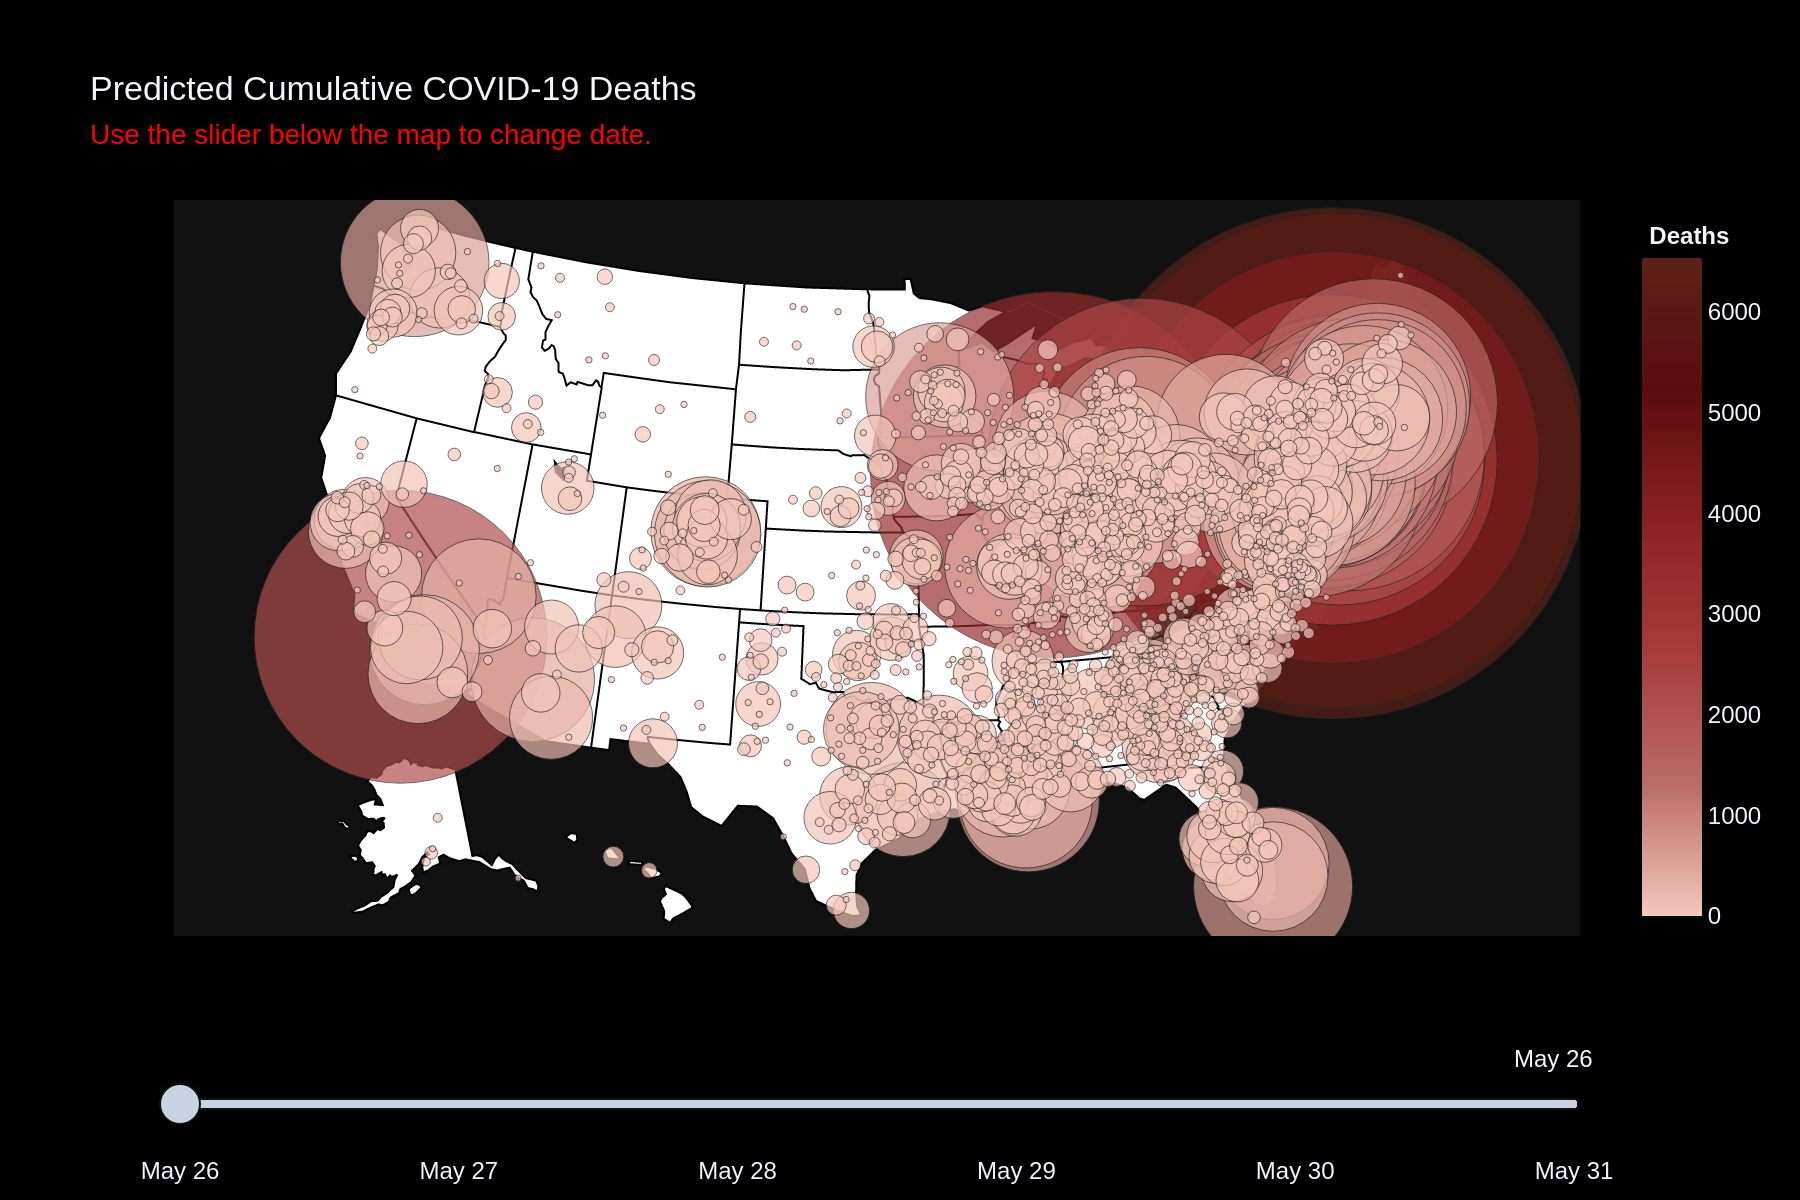
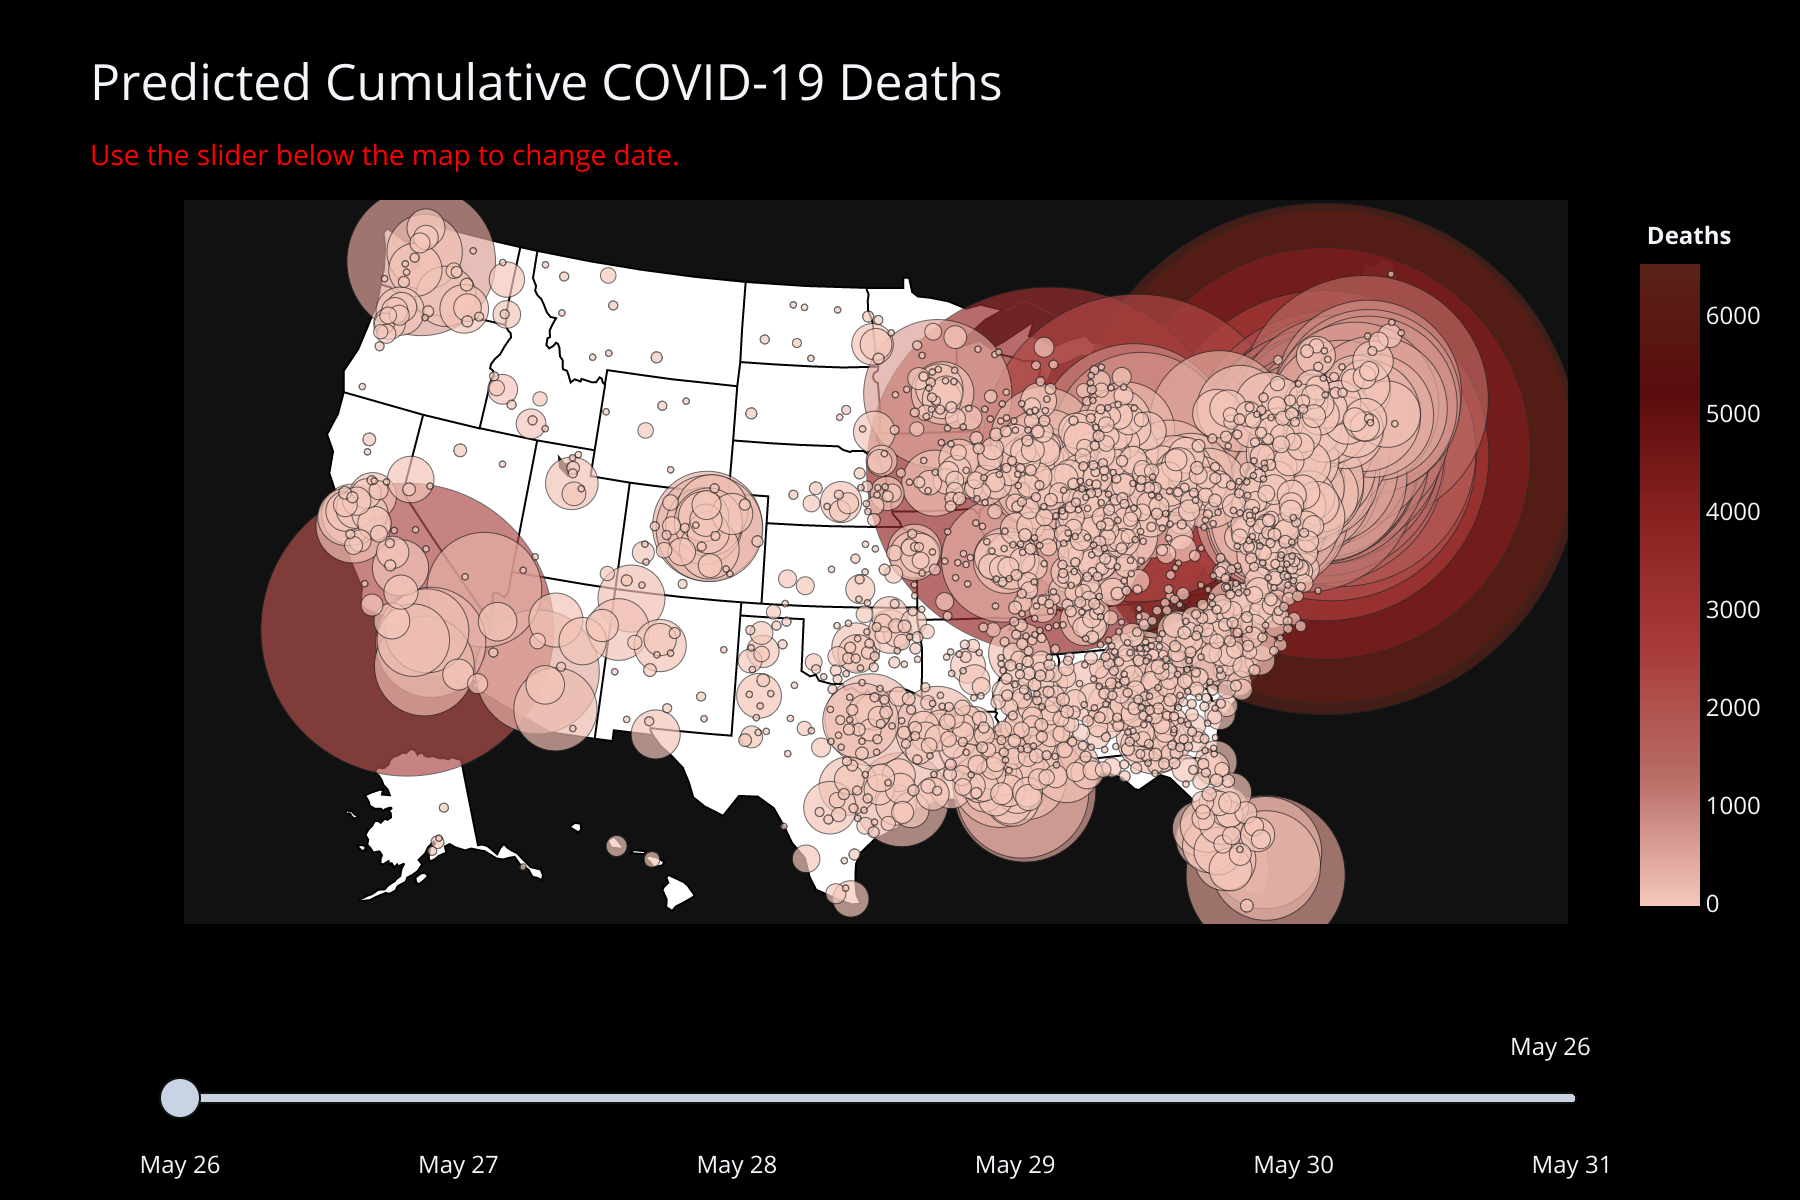
Website updates

diff --git a/_includes/00_about.html b/_includes/00_about.html
@@ -2,31 +2,48 @@
     <div class="intro-body">
         <div class="container">
             <div class="row">
+                <div class="grid-2-columns" style="margin-top: 100px">
+                        <div>
+                            <a href="results/deaths.html" target="_blank"><img src="results/deaths.png" style="width: 100%;"></a>
+                            <a type="button" class="btn btn-primary" style="margin-bottom: 30px; margin-right: 10px;" href="results/deaths.html" target="_blank">View interactive map in fullscreen</a>
+                            <!-- <p> <strong>County-level map</strong>: This map shows forecasts for the number of deaths at the county-level.</p> -->
+                        </div>
+                        <div>
+                            <a href="results/severity_map.html" target="_blank"><img src="results/severity_map.png" style="width: 100%;"></a>
+                            <a type="button" class="btn btn-primary" style="margin-bottom: 30px; margin-right: 10px;" href="results/severity_map.html" target="_blank">View interactive map in fullscreen</a>
+                        </div>
+                </div>
+            </div>
+            <div class="row">
                 <div class="col-md-8 col-md-offset-2">
 
-                    <div class="model-box" style="margin-top: 100px">
-                        <iframe class="model" src="https://docs.google.com/presentation/d/e/2PACX-1vRXKvNYDYm00f9EQHDMzMfs9n4otYEklUThbACGof0hEQLtJvrEn33mcRXPb3w8b9BKOawGnfl77Yfg/embed?start=false&loop=false&delayms=3000" frameborder="0" allowfullscreen=""></iframe>
-                    </div>
+
                     <p style="margin-top: 10px">
-    <a href="https://www.stat.berkeley.edu/~yugroup/people.html">The Yu Group </a> at UC Berkeley Statistics and EECS and CCB is
-    working to help forecast the severity of the epidemic for individual counties and
-    hospitals in the US. We develop interpretable models (updated daily) and
-    curate data to predict the trajectory of COVID-19-related deaths.
-    This website provides access to those predictions, in the form of interactive visualizations.
-    We are collaborating with <a href="https://response4life.org/">Response4Life</a>
-    to blunt the effect of COVID-19 through the production
-    and appropriate distribution of PPE, medical equipment, and medical personnel to healthcare
-    facilities across the United States.
-                     <div align="center">
+                        <a href="https://www.stat.berkeley.edu/~yugroup/people.html">The Yu Group </a> at UC Berkeley Statistics and EECS and CCB is
+                        working to help forecast the severity of the epidemic for individual counties and
+                        hospitals in the US. We develop interpretable models (updated daily) and
+                        curate data to predict the trajectory of COVID-19-related deaths.
+                        This website provides access to those predictions, in the form of interactive visualizations.
+                        We are collaborating with <a href="https://response4life.org/">Response4Life</a>
+                        to blunt the effect of COVID-19 through the production
+                        and appropriate distribution of PPE, medical equipment, and medical personnel to healthcare
+                        facilities across the United States.
+                    </p>
+
+                    <div align="center" style="margin-top: 30px">
                         <a type="button" class="btn btn-primary" style="margin-bottom: 30px; margin-right: 10px;" href="https://github.com/Yu-Group/covid19-severity-prediction/">Github</a>
                         <a type="button" class="btn btn-success" style="margin-bottom: 30px; margin-right: 10px;" href="https://arxiv.org/abs/2005.07882">arXiv paper</a>
                         <a type="button" class="btn btn-info" style="margin-bottom: 30px;" href="/assets/blog">blog post</a>
                     </div>
-                    </p>
+
+                    <div class="model-box">
+                        <iframe class="model" src="https://docs.google.com/presentation/d/e/2PACX-1vRXKvNYDYm00f9EQHDMzMfs9n4otYEklUThbACGof0hEQLtJvrEn33mcRXPb3w8b9BKOawGnfl77Yfg/embed?start=false&loop=false&delayms=3000" frameborder="0" allowfullscreen=""></iframe>
+                    </div>
 
                     <a href="#data" class="btn btn-circle page-scroll">
                         <i class="fa fa-angle-double-down animated"></i>
                     </a>
+
                 </div>
             </div>
         </div>

diff --git a/assets/css/chandan.css b/assets/css/chandan.css
@@ -15,3 +15,7 @@ p {
     text-align: justify;
 }
 
+.grid-2-columns {
+    display: grid;
+    grid-template-columns: 1fr 1fr;
+}

diff --git a/viz/viz_map.py b/viz/viz_map.py
@@ -221,7 +221,7 @@ def plot_cumulative_deaths_map_with_slider(df,
             'autosizable': True,
             'displaylogo': False
         }, auto_open = auto_open)
-
+    fig['layout']['title']['font']['size'] = 25
     return fig
 
 
@@ -394,7 +394,7 @@ def plot_hospital_severity_slider(df, # merged hospital and county, with severit
     map_title='Hospital-Level COVID-19 Pandemic Severity Index (CPSI)'
     if plot_choropleth:
         map_title = map_title + ' and Predicted Deaths'
-    map_title = map_title + '<br> Over the Next '+ str(target_days.size) + ' Days' + '<br>'\
+    map_title = map_title + '<br>' + \
     '<span style="font-size: 14px; color: red;">Use the slider below the map to change date.</span>'
 
     # make main figure
@@ -437,7 +437,7 @@ def plot_hospital_severity_slider(df, # merged hospital and county, with severit
             'autosizable': True,
             'displaylogo': False
         }, auto_open = auto_open)
-
+    fig['layout']['title']['font']['size'] = 25
     return fig
 
 
